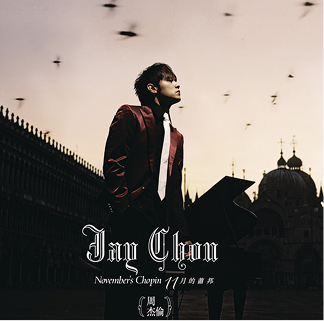
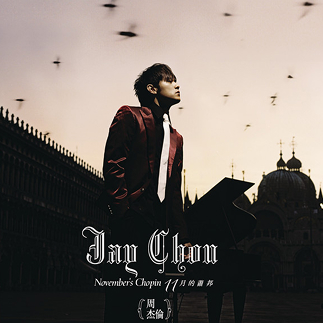
fix: change the png image to jpg

diff --git a/web/jaychou.html b/web/jaychou.html
@@ -143,7 +143,7 @@
             <h2 class="red-word">HIT SINGLES</h2>
             <div class="hitsong-container">
                 <div class="hitsong box">
-                    <img src="image/hitsong1.png" alt="hitsong">
+                    <img src="image/hitsong1.jpg" alt="hitsong">
                     <h3 class="white margin-bottom">Silence-(2001)</h3>
                     <p class="white">A soft and introspective song reflecting quiet emotions and subtle feelings.</p>
                     <div class="button2">
@@ -154,7 +154,7 @@
                     </div>
                 </div>
                 <div class="hitsong box">
-                    <img src="image/hitson g2.jpg" alt="hitsong">
+                    <img src="image/hitsong2.jpg" alt="hitsong">
                     <h3 class="white margin-bottom">Nocturne-(2005)</h3>
                     <p class="white">A melancholic and poetic song portraying nocturnal sorrow, loss, and
                         love.</p>
@@ -166,7 +166,7 @@
                     </div>
                 </div>
                 <div class="hitsong box">
-                    <img src="image/hitsong3.png" alt="hitsong">
+                    <img src="image/hitsong3.jpg" alt="hitsong">
                     <h3 class="white margin-bottom">Flora Sea-(2006)</h3>
                     <p class="white">A romantic ballad with gentle piano and poetic lyrics about love and longing.</p>
                     <div class="button2">
@@ -204,7 +204,7 @@
             <div class="news-container">
                 <div class="fullwidth-box dark">
                     <div class="left">
-                        <img src="image/jaynews1.png" alt="news1">
+                        <img src="image/jaynews1.jpeg" alt="news1">
                     </div>
                     <div class="right">
                         <div class="news">
@@ -226,7 +226,7 @@
                 </div>
                 <div class="fullwidth-box dark">
                     <div class="left">
-                        <img src="image/jaynews2.png" alt="news2">
+                        <img src="image/jaynews2.jpg" alt="news2">
                     </div>
                     <div class="right">
                         <div class="news">
